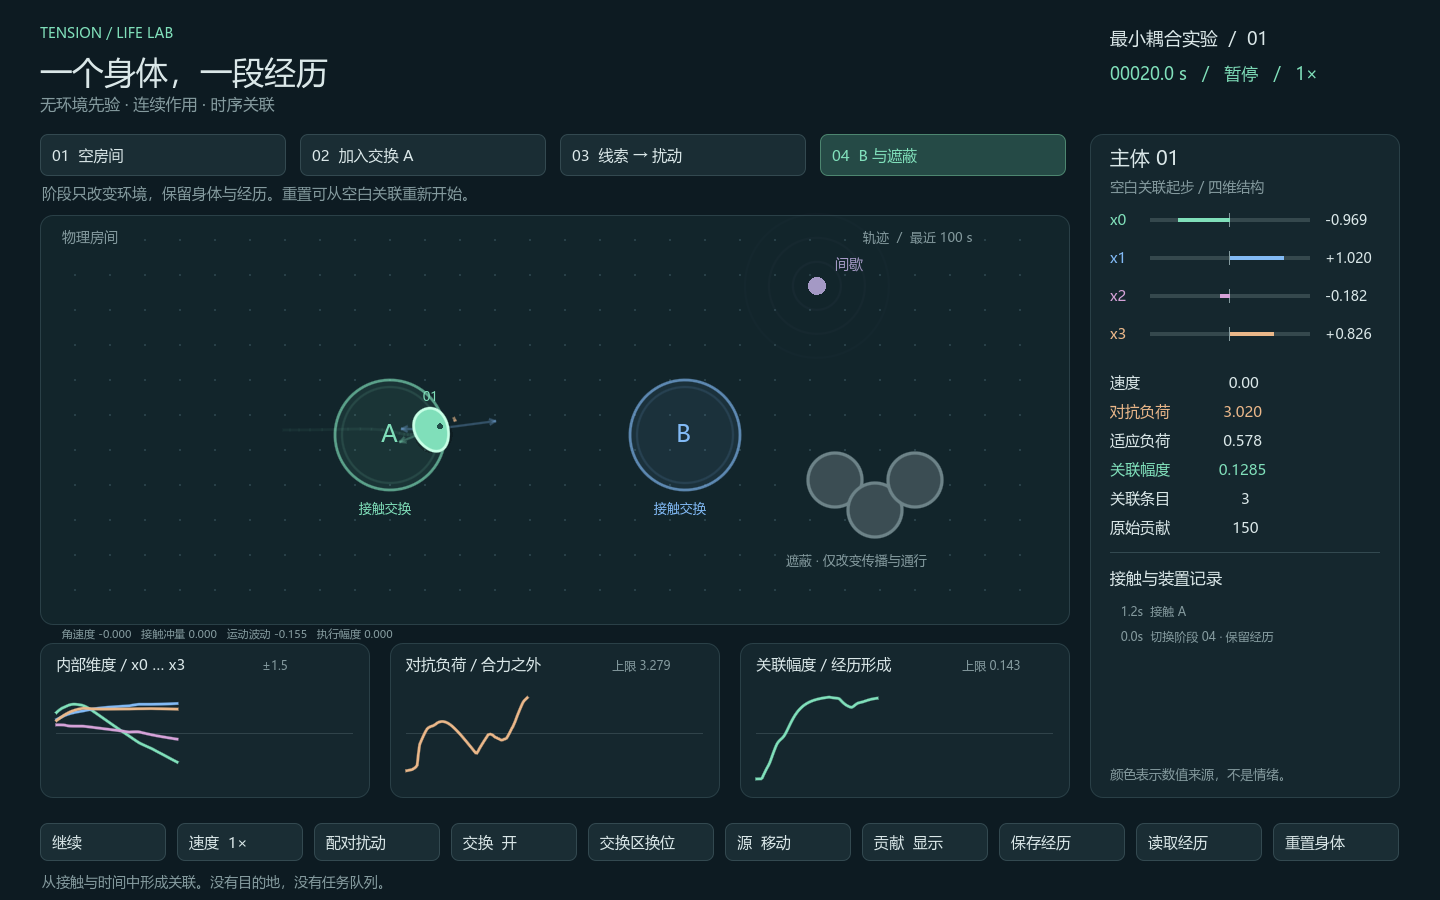
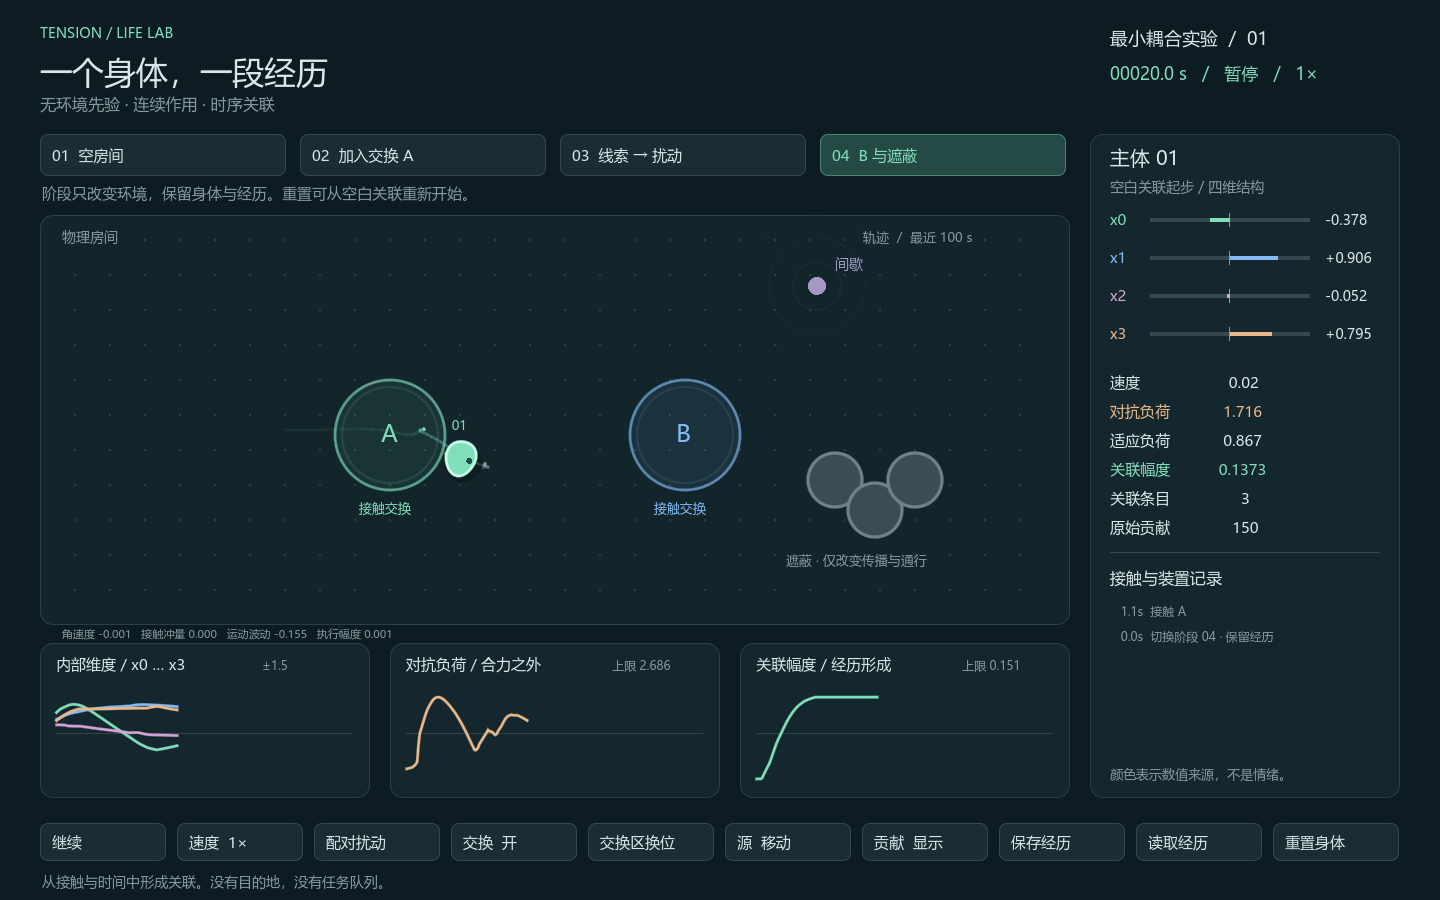
feat: v0.0.2边界优化

diff --git a/docs/MODULES.md b/docs/MODULES.md
@@ -8,6 +8,7 @@
 | 主体结构 | `godot/scripts/subjects/planar_structure.gd` | 当前二维主体家族的公式、形状校验、状态初始化、张力/输出映射、物理反馈映射 |
 | 外部感受 | `godot/scripts/subjects/planar_senses.gd` | 环境物理快照 -> 数值样本；物理尺寸与信号不等于心理标签 |
 | 可选自身感受 | `godot/scripts/subjects/planar_self_senses.gd` | 当前身体快照 -> 数值样本；只有当前主体结构 `self_sense` 启用才调用，是否进入关联由结构 `plasticity` 声明 |
+| 可选事件感受 | `godot/scripts/subjects/planar_events.gd` | 连续样本/身体量经主体阈值与迟滞 -> 短暂事件样本；事件可独立声明是否进入关联 |
 | 主体可塑性 | `godot/scripts/subjects/trace_plasticity.gd` | 本主体家族选择的痕迹条件化；引擎不自动使用它 |
 | 主体运动结构 | `subjects/motor_dynamics.gd` | 各维推进、状态变化转向、可重放的相关波动；不接收位置、目的地或覆盖率 |
 | 身体与接触 | `godot/scripts/runtime/body_physics.gd` | 未合并贡献 -> 净作用、对抗负荷、物理运动、交换反馈；不修改张力或学习记忆 |
@@ -26,7 +27,7 @@
 
 ## 贡献溯源
 
-当前 planar_structure 的 source 第一项：0=几何耦合项，1=每条记忆的每维贡献，2=每个感受连接项，3=新异响应，4=沿身体朝向的有符号逐维贡献（已删除常量推进），5=各维状态变化的转向贡献，6=结构配置的运动波动。样本的 origin 为0（外部）或1（当前主体启用的自身映射），并保留在来源索引中；编号含义只属于这个主体，通用引擎不解释它。
+当前 planar_structure 的 source 第一项：0=几何耦合项，1=每条记忆的每维贡献，2=每个感受连接项，3=新异响应，4=沿身体朝向的有符号逐维贡献（已删除常量推进），5=各维状态变化的转向贡献，6=结构配置的运动波动。样本 origin 为0（外部连续）、1（当前主体启用的自身连续）或2（由当前主体事件规则生成）；事件还保留其原始来源。编号含义只属于这个主体，通用引擎不解释它。
 
 身体计算总作用量 `sum(length(value))` 与净作用 `sum(value)`；两者之差是本身体定义的对抗负荷，驱动身体阻尼和可恢复负荷状态。并非所有数字生命必须采用这个定义。反馈到张力的符号和强度由主体 `feedback_load` 定义。
 
@@ -41,12 +42,13 @@
 - `test_motion.gd`：平移/旋转等变性、恒定状态持续运动、无预接触推力、碰撞反馈、相反转向负荷与个体独立波动。
 - `test_quiescence.gd`：恒定输入下的使用适应/恢复、关闭适应的因果对照、低驱动与对抗静止区别、外力推动及完整历史恢复。没有以停留时长驱动行为的规则。
 - `test_self_sense.gd`：可选自身映射、关闭自身映射的对照、坐标隔离、映射校验、无副作用感受与关联历史。
+- `test_event_sense.gd`：连续外部/自身量不自动注册、阈值上升沿、迟滞重置、主体关闭事件能力与事件关联权限。
 - `diagnose_coverage.gd`：四阶段与消融的300秒轨迹诊断，不把覆盖率作为运行目标。
 
 ## 边界与待办
 
 当前游戏只装配一种二维身体家族。引擎的通用性由第二种独立测试结构验证，不表示游戏已有多种身体实现。感受维数当前仍为该主体的四通道，场景交换向量也为四维；改变游戏主体维度必须同时定义相容感受/交换映射。没有自动寻找“更优规则”。
 
-单主体实验使用独立 `tension-room` 格式版本5与 `TensionRoom/room-history-v5.bin`，旧文件不覆盖、不迁移。保存连续执行幅度 activation、适应负荷 strain、朝向、角速度、独立伪随机状态、房间几何、主体参数、关联及装置/观察历史。自身感受配置随主体定义保存，恢复后继续相同步进可得到相同状态。旧 motion-comparison.md 是持续运动版本的历史对照；当前低活动记录见 quiescence-observations.json。继续开发先阅读共识，再看本表和测试失败，不重复发明另一套目标架构。
+单主体实验使用独立 `tension-room` 格式版本6与 `TensionRoom/room-history-v6.bin`，旧文件不覆盖、不迁移。保存连续执行幅度 activation、适应负荷 strain、朝向、角速度、独立伪随机状态、事件迟滞状态、房间几何、主体参数、关联及装置/观察历史。自身与事件感受配置随主体定义保存，恢复后继续相同步进可得到相同状态。旧 motion-comparison.md 是持续运动版本的历史对照；当前低活动记录见 quiescence-observations.json。继续开发先阅读共识，再看本表和测试失败，不重复发明另一套目标架构。
 
 执行幅度与慢适应属于具体身体，参数来自主体定义 body_response。原始贡献先保留并计算对抗，之后自主运动由执行幅度调制；外部机械场不受该幅度门控。strain 现在受执行量及对抗执行量共同影响，不再仅是对抗量的显示累积。没有定时休息状态或强制访问序列。

diff --git a/README.md b/README.md
@@ -11,7 +11,7 @@
 
 阶段切换保留经历。可关闭交换但保留信号、交换 A/B 位置、固定或移动扰动源，观察相同结构如何随经历变化。暂停、四倍速、贡献箭头、轨迹和四维曲线用于观察；空格切换暂停。
 
-“保存经历／读取经历”保存完整身体、关联痕迹、装置时钟和历史。“重置身体”返回相同初始状态和空白关联，保留环境开关。没有自动存档。新的 `tension-room` 格式版本 4 保存到 Godot 用户目录 `TensionRoom/room-history-v5.bin`，不迁移或覆盖旧版本记录（包括房间版本1、2、3、4）。
+“保存经历／读取经历”保存完整身体、关联痕迹、装置时钟和历史。“重置身体”返回相同初始状态和空白关联，保留环境开关。没有自动存档。新的 `tension-room` 格式版本 4 保存到 Godot 用户目录 `TensionRoom/room-history-v6.bin`，不迁移或覆盖旧版本记录（包括房间版本1、2、3、4、5）。
 
 界面名称仅供观察。A、B 不代表固定需求；遮蔽物不直接降低张力。当前是手工结构参数的实验模型，并不保证形成特定行为或证明真实生物心理。
 
@@ -27,6 +27,7 @@
 & ./.tools/godot/Godot_v4.6-stable_win64_console.exe --headless --path godot --script tests/test_motion.gd
 & ./.tools/godot/Godot_v4.6-stable_win64_console.exe --headless --path godot --script tests/test_quiescence.gd
 & ./.tools/godot/Godot_v4.6-stable_win64_console.exe --headless --path godot --script tests/test_self_sense.gd
+& ./.tools/godot/Godot_v4.6-stable_win64_console.exe --headless --path godot --script tests/test_event_sense.gd
 & ./.tools/godot/Godot_v4.6-stable_win64_console.exe --path godot -- --lab-smoke
 ```
 
@@ -37,3 +38,5 @@
 低活动由身体的连续执行幅度与使用适应反馈形成，已删除常量推进并保留逐维作用符号。没有休息目标或定时停留。界面显示执行幅度与适应负荷；旧运动覆盖对照是历史版本，当前观察见 `artifacts/quiescence-observations.json`。
 
 当前二维主体选择感知速度、角速度、执行幅度和适应负荷；这是主体结构的可选自身感受映射。关闭该映射不改变身体物理，只会阻止这些量进入张力。当前连续自身样本不自动注册关联；主体结构可单独授予该权限。位置、目标和对象身份不在自身感受中。
+
+连续外部与自身样本会推进张力，但不会自动创建关联。当前主体只将信号出现和接触冲量跨阈值生成可塑事件；阈值、迟滞和权限属于主体结构。

diff --git a/docs/MINIMAL_ROOM.md b/docs/MINIMAL_ROOM.md
@@ -57,7 +57,9 @@
 
 每个自身样本有 origin=1，外部样本为origin=0；来源继续随贡献保留。自身样本的方向采用当前朝向，只是这个二维身体将无方向身体量投到可用的身体坐标系的方式，并不表示它获得世界位置、房间地图或对自身的完整描述。当前没有把位置、对象编号、目标距离或标签加入自身感受。
 
-自身样本是否可注册为关联线索也由主体结构声明。当前 `plasticity=false`：它们进入张力推进，但不新建关联条目，避免连续身体量填满环境经验容量。另一主体可显式设为 `true`，但应配合离散化或更合适的可塑性规则。当前关联幅度主要是环境线索历史；仍应使用配对/错时对照，不能把单次停留后的关联增量直接解释为对物体的学习。存档升级为版本5，旧版本4及更早记录不读取。
+自身样本是否可注册为关联线索也由主体结构声明。当前 `plasticity=false`：它们进入张力推进，但不新建关联条目，避免连续身体量填满环境经验容量。另一主体可显式设为 `true`，但应配合离散化或更合适的可塑性规则。
+
+当前主体另有事件感受结构：外部样本幅度跨越 `0.035`（降至`0.015`以下才重置）时生成可塑事件；接触冲量跨越 `0.05`（降至`0.02`以下才重置）时生成可塑自身事件。持续 A/B 信号、速度、执行幅度和适应负荷仍只是连续输入。阈值和迟滞不是引擎默认值，是此主体 `event_sense` 的结构参数。当前关联幅度主要是这些许可事件形成的历史；仍应使用配对/错时对照，不能把单次停留后的关联增量直接解释为对物体的学习。存档升级为版本6，旧版本5及更早记录不读取。
 
 关联由时间痕迹与后续反馈形成，并可衰减。测试把配对、错时、冻结、消退做对照，还比较相同身体下有无已形成关联的实际运动。自由生活轨迹只作状态、接触及贡献记录，不保证主体必然表现某个故事。
 

diff --git a/docs/CONSENSUS.md b/docs/CONSENSUS.md
@@ -14,6 +14,7 @@
 10. 当前实现只是一个主体家族的实验模型；不声称意识或真实生物心理已实现。
 11. 低活动与停留必须来自主体结构、身体反馈和环境作用，不设置“休息”目标、休息动作队列、定时停留或为完成观察而强制访问物品。静止可能来自低驱动，也可能来自相反作用，观察时必须区分。
 12. 自身感知不是引擎默认能力，也不是所有主体必有属性。身体可先有真实状态；只有主体结构明确声明的身体量，才能经其自身感受映射进入张力和可塑性。自身感受不授予绝对世界坐标或无损的全知身体读数。
+13. 感受来源不决定是否学习。连续外部和连续自身样本默认只影响张力推进；主体结构须明确以变化、跨阈值或许可的稳定模式生成可塑事件。事件的阈值、迟滞、冷却、输入映射和可塑权限均属于主体结构与状态，不能由引擎默认决定。
 
 ## 运行协议
 

diff --git a/ARCHITECTURE.md b/ARCHITECTURE.md
@@ -19,3 +19,5 @@
 低活动由身体的连续执行幅度与使用适应反馈形成，已删除常量推进并保留逐维作用符号。没有休息目标或定时停留。界面显示执行幅度与适应负荷；旧运动覆盖对照是历史版本，当前观察见 `artifacts/quiescence-observations.json`。
 
 `planar_senses.gd` 与 `planar_self_senses.gd` 分别生成外部和可选自身样本。世界只提供身体快照，当前主体定义决定是否映射其中的物理量。样本来源保留在贡献记录中。
+
+`planar_events.gd` 将主体许可的连续变化转换成短暂事件样本。事件层保留来源和迟滞状态；它不按外部或自身来源默认授予学习权限。
